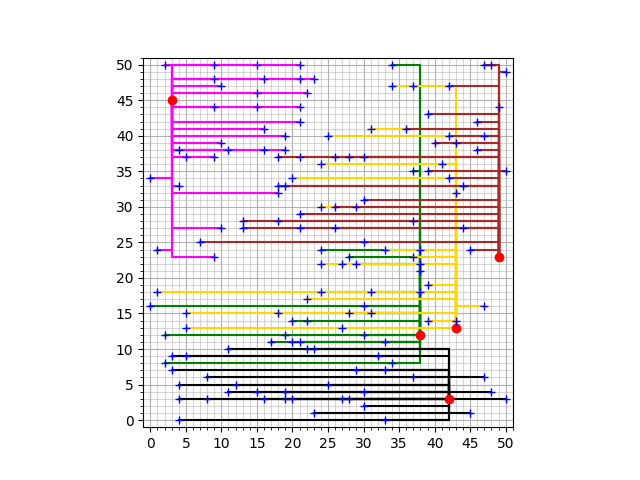
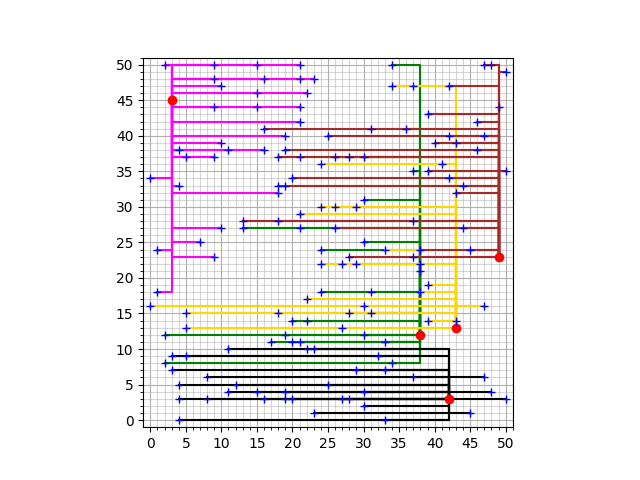
cleaned up main and gave cable sharing another try

diff --git a/code/algorithms/greedy_sharing.py b/code/algorithms/greedy_sharing.py
@@ -1,0 +1,172 @@
+from operator import attrgetter
+
+
+def make_groups(district):
+    """Finds the five houses closest to the five starting points"""
+    start_coords = [
+        {'x': 0, 'y': 0},
+        {'x': 0, 'y': 50},
+        {'x': 50, 'y': 0},
+        {'x': 50, 'y': 50},
+        {'x': 25, 'y': 25}
+    ]
+
+    all_first_houses = []
+    for start_point in start_coords: 
+        nearest = None
+        smallest_distance = 200
+        all_houses = []
+        for house in district.unconnected_houses():
+            distance = (abs(start_point['x'] - house.x_grid) + abs(start_point['y'] - house.y_grid))
+            all_houses.append({'house': house, 'distance': distance})
+            if distance < smallest_distance:
+                smallest_distance = distance
+                nearest = house
+        nearest.connected = True
+        if start_point['x'] > nearest.x_grid:
+            xl = start_point['x']
+            xs = nearest.x_grid
+        else: 
+            xl = nearest.x_grid
+            xs = start_point['x']
+        if start_point['y'] > nearest.y_grid:
+            yl = start_point['y']
+            ys = nearest.y_grid
+        else:
+            yl = nearest.y_grid
+            ys = start_point['y']
+
+        square = abs(xl-xs) * abs(yl-ys)
+        point_data = {
+            'start': start_point, 
+            'all_houses': all_houses, 
+            'xl': xl, 
+            'xs': xs, 
+            'yl': yl, 
+            'ys': ys, 
+            'square': square, 
+            'houses': [nearest], 
+            'output': nearest.output
+            }
+        all_first_houses.append(point_data)
+        
+    next_step(district, all_first_houses)
+
+
+def next_step(district, all_first_houses):
+    """Divides the other 145 houses between the first five points"""
+    s=0
+    for s in range(30):
+        i = 0
+        for i in range(5):
+            point = all_first_houses[i]
+            houses = point['all_houses']
+            houses.sort(key=lambda d: d['distance'])
+            free_houses = [h['house'] for h in houses if not h['house'].get_status()]
+            if len(free_houses) > 5:
+                free_houses = free_houses[0:5]
+
+            squares = []   
+            for house in free_houses:
+                test_xl = max([point['xl'], house.x_grid])
+                test_xs = min([point['xs'], house.x_grid])
+                test_yl = max([point['yl'], house.y_grid])
+                test_ys = min([point['ys'], house.y_grid])
+                new_square = abs(test_xl-test_xs) * abs(test_yl-test_ys)
+                squares.append({'house': house, 'square': new_square})
+            
+            if squares:
+                squares.sort(key=lambda n: n['square'])
+                new_house = squares[0]
+                the_house = new_house['house']
+                the_house.connected = True
+                point['houses'].append(the_house)
+            i += 1    
+        s += 1
+    third_step(district, all_first_houses)
+
+
+def third_step(district, all_first_houses):
+    """Finds the closest battery for each starting point and connects all the houses in that group to that battery"""
+    batteries = district.batteries
+    k = 0
+    for k in range(5):
+        battery = batteries[k]
+        nearest = 0
+        smallest = 1000
+        for group in all_first_houses:
+            start_point = group['start']
+            distance =  (abs(start_point['x'] - battery.x_grid) + abs(start_point['y'] - battery.y_grid))
+            if distance < smallest:
+                smallest = distance
+                nearest = all_first_houses.index(group)
+
+        get_houses = all_first_houses[nearest]
+        true_houses = get_houses['houses']
+        for each_house in true_houses:
+            connection = district.find_specific_connection(each_house, battery)
+            district.make_connection(connection)
+        all_first_houses.remove(get_houses)    
+        k += 1
+            
+
+def share_cables(district):
+    """Finds the closest house for each battery and constructs cables between them"""
+    for battery in district.batteries:        
+        connections = [c for c in district.get_true_connections() if c.battery == battery]
+        close_x = 200
+        con_x = None
+        for connection in connections:
+            if abs(connection.house.x_grid / battery.x_grid) < close_x:
+                close_x = abs(connection.house.x_grid / battery.x_grid)
+                con_x = connection
+            elif abs(connection.house.x_grid / battery.x_grid) == close_x:
+                if connection.distance > con_x.distance:
+                    close_x = abs(connection.house.x_grid / battery.x_grid)
+                    con_x = connection
+
+        con_x.house.construct_cable(battery.x_grid, battery.y_grid, con_x.distance)
+        connections.remove(con_x)
+
+        close_y = 200
+        con_y = None
+        for connection in connections:
+            if abs(connection.house.y_grid / battery.y_grid) < close_y:
+                close_y = abs(connection.house.y_grid / battery.y_grid)
+                con_y = connection
+            elif abs(connection.house.y_grid / battery.y_grid) == close_y:
+                if connection.distance > con_y.distance:
+                    close_y = abs(connection.house.y_grid / battery.y_grid)
+                    con_y = connection
+    
+        con_y.house.construct_cable(battery.x_grid, battery.y_grid, con_y.distance)
+        connections.remove(con_y)
+
+        cables = []
+        for cp in con_x.house.cable_points:
+            cables.append(cp)
+        for points in con_y.house.cable_points:
+            cables.append(points)
+        connect_points(connections, cables)
+
+
+def connect_points(connections, cables):
+    """Connects all the other houses to the nearest cable that is connected to its battery"""
+    connections.sort(key=attrgetter('distance'))
+    cable_points = cables    
+    for connection in connections:
+        closest_point = 1000
+        go_x = 0
+        go_y = 0
+        for p in cable_points:
+            pxy = p.split(",")
+            px = int(pxy[0])
+            py = int(pxy[1])
+            dist = abs(px - connection.house.x_grid) + abs(py - connection.house.y_grid)
+            if dist < closest_point:
+                closest_point = dist
+                go_x = px
+                go_y = py    
+        connection.house.construct_cable(go_x, go_y, closest_point)   
+        for more_p in connection.house.cable_points:
+            cable_points.append(more_p)     

diff --git a/code/algorithms/hillclimber.py b/code/algorithms/hillclimber.py
@@ -2,7 +2,7 @@ from operator import attrgetter
 from itertools import combinations
 
 
-class FirstAlgorithm:
+class HillClimber:
     """Switches connections with better connections"""
     def __init__(self, valid_district):
         self.district = valid_district
@@ -32,13 +32,12 @@ class FirstAlgorithm:
             self.make_switch(cons_to_switch['second_switch'], cons_to_switch['new_second'])
         
 
-
-    def find_some_switches(self, ex_con, all_options):
+    def find_switches(self, ex_con, all_options):
         all_combis = []
         for battery_group in all_options: 
             for i in range(2,0,-1):
                 for combi in combinations(battery_group, i):
-                    combis = self.do_stuff_with_combi(combi, ex_con)
+                    combis = self.find_best_combi(combi, ex_con)
                     if combis:
                         all_combis.append(combis)
         if all_combis:
@@ -47,7 +46,7 @@ class FirstAlgorithm:
         return False    
 
 
-    def do_stuff_with_combi(self, combi, ex_con):
+    def find_best_combi(self, combi, ex_con):
         cons_to_switch = {}
         free_cap = ex_con.battery.get_free_capacity(ex_con.output)                
         linked_battery = combi[0].battery
@@ -61,8 +60,7 @@ class FirstAlgorithm:
                 total_new_distance = total_new_distance + new_second.distance
             
             total_old_distance = ex_con.distance + sum(con.distance for con in combi)
-            
-            
+      
             if total_new_distance < total_old_distance:
                 cons_to_switch['distance'] = total_new_distance
                 cons_to_switch['first_switch'] = combi[0]
@@ -74,6 +72,15 @@ class FirstAlgorithm:
                     
         return cons_to_switch                     
 
+
+    def free_switch(self, other_cons_house, ex_con):
+        """Makes connection if it can be made without switching with another connection and if it improves the distance"""
+        for option in other_cons_house:
+            if (option.battery.get_total_input() + ex_con.output) <= option.battery.capacity and option.distance < ex_con.distance:
+                self.district.break_connection(ex_con)
+                self.district.make_connection(option)
+                return True
+        return False       
 
 
     def do_stuff_with_connections(self):    
@@ -90,7 +97,7 @@ class FirstAlgorithm:
                 if self.free_switch(other_cons_house, ex_con):
                     break
                 all_options = self.get_all_options(other_cons_house)
-                cons_to_switch = self.find_some_switches(ex_con, all_options)
+                cons_to_switch = self.find_switches(ex_con, all_options)
     
                 if cons_to_switch:
                     print(f"switched {i}")
@@ -101,18 +108,6 @@ class FirstAlgorithm:
                     break
                 else: 
                     k +=1
-                    if k%30 == 0:
-                        print(f"k = {k}")
                     if k == 150:
                         if self.district.check_validity():
                             changes = False  
-
-
-    def free_switch(self, other_cons_house, ex_con):
-        """Makes connection if it can be made without switching with another connection and if it improves the distance"""
-        for option in other_cons_house:
-            if (option.battery.get_total_input() + ex_con.output) <= option.battery.capacity and option.distance < ex_con.distance:
-                self.district.break_connection(ex_con)
-                self.district.make_connection(option)
-                return True
-        return False        

diff --git a/main.py b/main.py
@@ -5,16 +5,18 @@
 # ****************************************
 
 
-from code.algorithms.firstalgorithm import FirstAlgorithm as fa
+from code.algorithms.hillclimber import HillClimber as hc
 from code.algorithms.random import randomly_connect
-from code.algorithms.nearesthouse import nearestHouse
 from code.classes import district
 from code.visualisation.visualisation import make_district
+from code.visualisation.supporting_visuals import make_graph
+from code.algorithms.greedy_sharing import share_cables, make_groups
+from code.algorithms.depthfirstcombis import DepthFirstCombinations as dfc
 
 
 if  __name__ == "__main__":
     
-    # Chose a district
+    # Choose a district
     which_district = input("Welk district wil je zien?: 1, 2, 3\n")
     if which_district == '1':
         chosen_district = district.District("data/district-1_batteries.csv","data/district-1_houses.csv")
@@ -30,29 +32,38 @@ if  __name__ == "__main__":
     for con in chosen_district.connections:
         con.calc_rating()
 
-    # Chose an algorithm
-    which_algorithm = input("Welk algoritme wil je toepassen?:\n HillClimber = 1\n Combinations = 2\n")
+    # Choose an algorithm
+    which_algorithm = input("Welk algoritme wil je toepassen?:\n HillClimber = 1\n Combinations = 2\n Shared cables = 3\n")
 
     if which_algorithm == '1':
         random_district = randomly_connect(chosen_district)
-        hillclimb = fa(random_district)
+        hillclimb = hc(random_district)
         hillclimb.do_stuff_with_connections()
         hillclimb.district.make_cables()
         print(hillclimb.district.calc_costs())
-        hillclimb.district.get_output()
-        visual_district = make_district(hillclimb.district)
+        visual = make_district(hillclimb.district)
 
-    # elif which_algorithm == '2':
-        # chosen_district.connect_bests(11)
-        # chosen_district.prune_some_more(45)
-        # dfc_district = dfc(chosen_district)
-        # best_one = dfc_district.find_best_combi()
-        # if best_one:
-            # best_one.make_cables()
-            # print(best_one.calc_costs())
-            # best_one.get_output()
-            # visual = make_district(best_one)
+
+    # With the current parameters this only works on district 2 and it takes a long time
+    elif which_algorithm == '2':
+        chosen_district.connect_bests(11)
+        chosen_district.prune_some_more(45)
+        dfc_district = dfc(chosen_district)
+        best_one = dfc_district.find_best_combi()
+        if best_one:
+            best_one.make_cables()
+            print(best_one.calc_costs())
+            best_one.get_output()
+            visual = make_district(best_one)
         
+
+    # Won't give valid solutions yet
+    elif which_algorithm == '3':
+        make_groups(chosen_district)
+        share_cables(chosen_district)
+        chosen_district.calc_distance()
+        visuals = make_district(chosen_district)
+
 
 
     else:

diff --git a/code/algorithms/random.py b/code/algorithms/random.py
@@ -1,0 +1,16 @@
+import random
+
+def randomly_connect(district):
+    """Makes random connections between houses and batteries but only if valid"""
+    while district.unconnected_houses():
+        all_connections = district.get_false_connections()
+        random.shuffle(all_connections)
+        for connection in all_connections:
+            if not connection.house.get_status() and connection.output <= (connection.battery.capacity - connection.battery.get_total_input()):
+                district.make_connection(connection)
+
+        if district.unconnected_houses():
+            district.add_retry()
+            district.try_again()
+        
+    return district 

diff --git a/code/classes/district.py b/code/classes/district.py
@@ -163,11 +163,10 @@ class District():
     def get_output(self):
         """Get all necessary data and puts it in a json file"""
         all_data = []
-        costs_own = 0
         costs_own = self.calc_costs()*9  
         for battery in self.batteries:
             costs_own = costs_own+5000
-        all_data.append({'district': 1, 'costs-own': costs_own})
+        all_data.append({'district': self.name, 'costs-own': costs_own})
         for battery in self.batteries:
             houses = [] 
             for house in battery.connected_houses:
